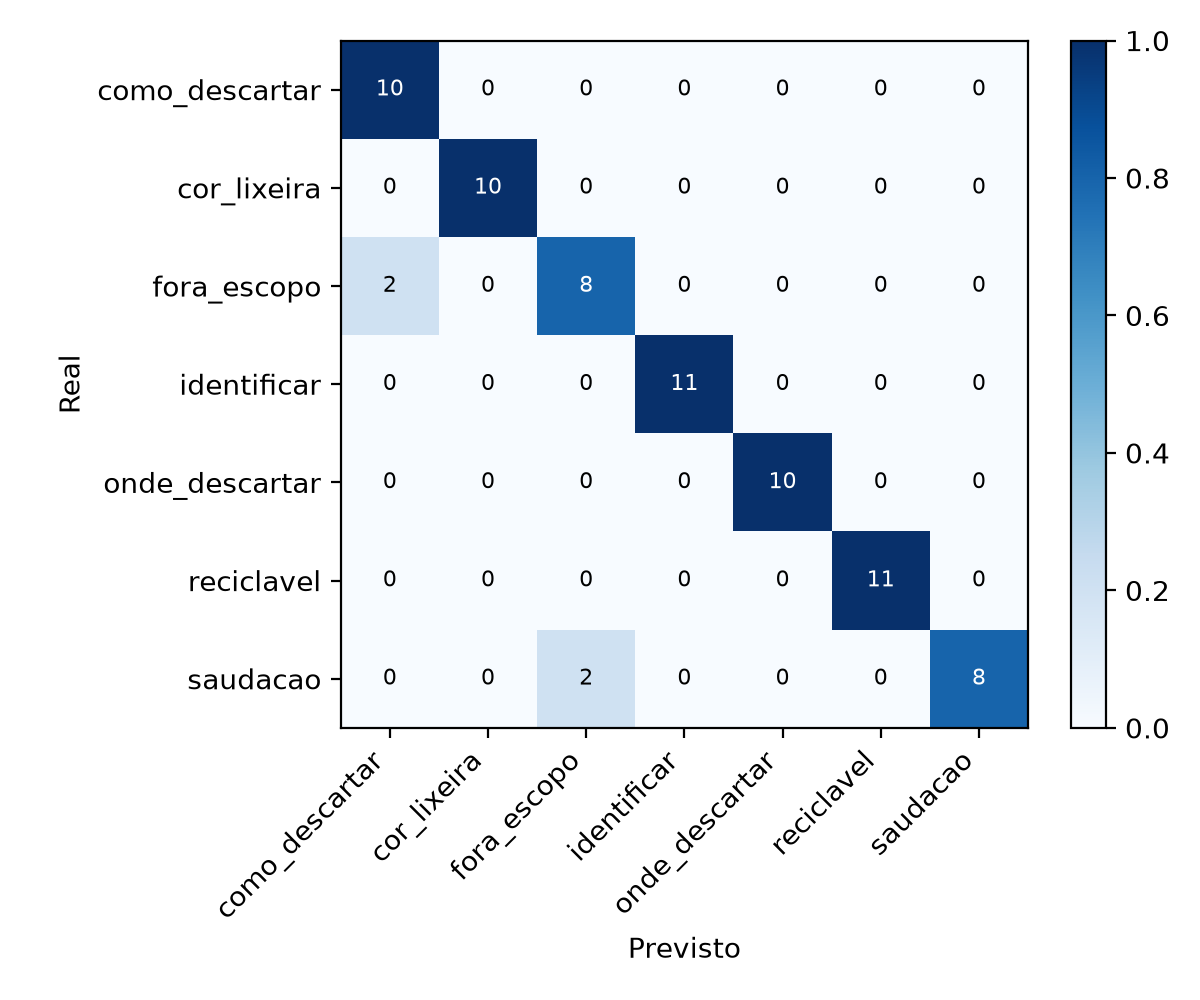
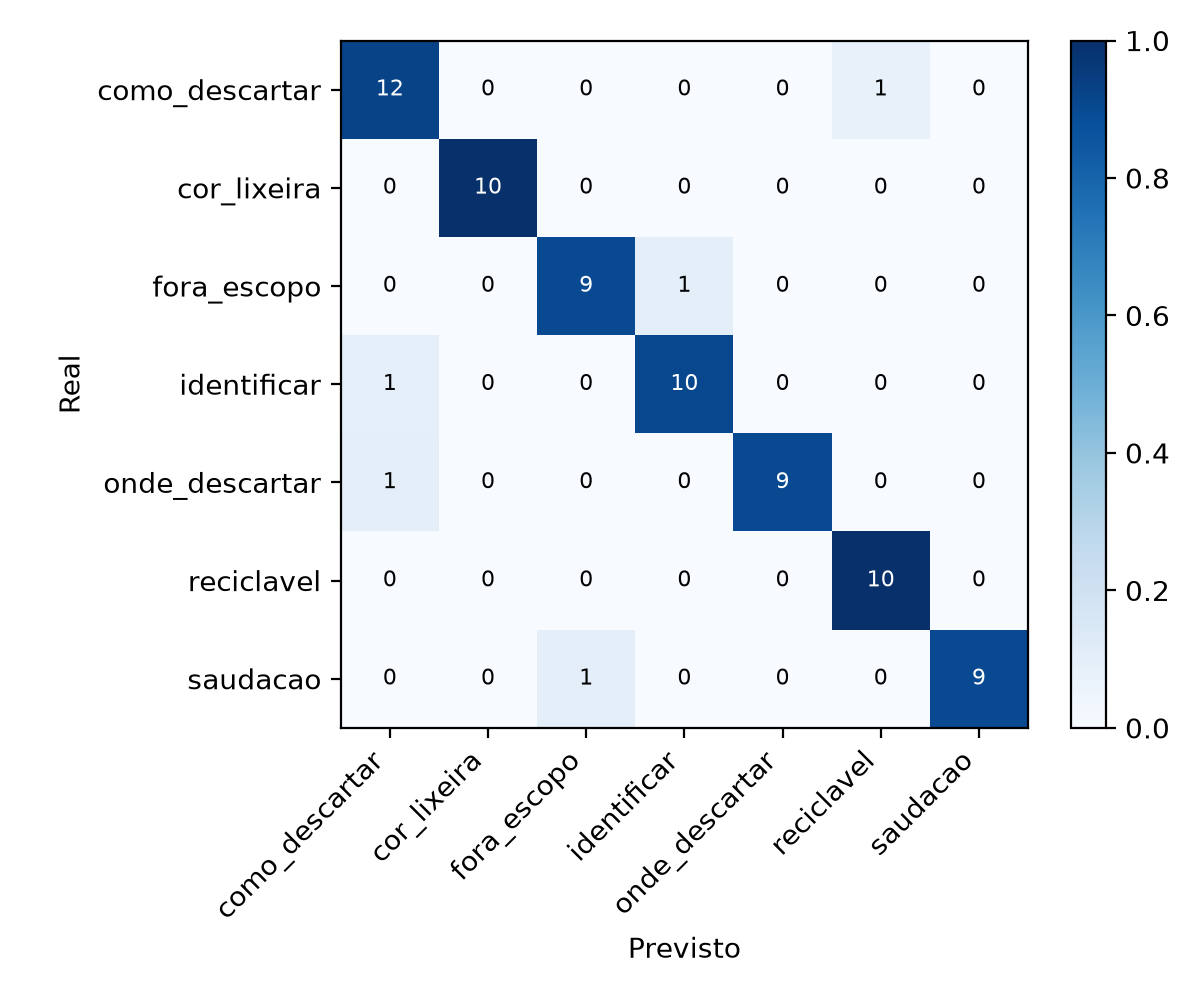
Corrigir memoria de material entre mensagens e intencao 'como reciclar X'

diff --git a/app.py b/app.py
@@ -11,6 +11,7 @@ from PIL import Image
 from src.config import CLASSES_PT, JSON_MAPA, MODELO_CNN, MODELO_INTENCOES
 from src.decisao.agente import AgenteDescarte
 from src.decisao.grafo import MapaColeta
+from src.pln.entidades import com_memoria_de_material, extrair
 
 st.set_page_config(page_title="Descarte Inteligente — Maceió", page_icon="♻", layout="wide")
 
@@ -40,6 +41,10 @@ with col_img:
     arquivo = st.file_uploader("Foto do resíduo", type=["jpg", "jpeg", "png"])
     camera = st.camera_input("…ou tire uma foto agora")
     origem = camera or arquivo
+    sig_imagem = getattr(origem, "file_id", None)
+    if sig_imagem != st.session_state.get("sig_imagem"):
+        st.session_state.sig_imagem = sig_imagem
+        st.session_state.material_lembrado = None
     imagem = Image.open(origem) if origem else None
     if imagem is not None:
         st.image(imagem)
@@ -58,11 +63,15 @@ with col_chat:
     pergunta = st.chat_input("Ex.: isso é reciclável? / onde levo isso?")
     if pergunta:
         st.chat_message("user").markdown(pergunta)
-        resp = agente.responder(pergunta, imagem, bairro)
+        pergunta_agente = com_memoria_de_material(pergunta, st.session_state.get("material_lembrado"))
+        resp = agente.responder(pergunta_agente, imagem, bairro)
+        ent_atual = extrair(pergunta)
+        if ent_atual.material:
+            st.session_state.material_lembrado = ent_atual.termo_material
         st.chat_message("assistant").markdown(resp.texto)
         st.session_state.historico += [("user", pergunta), ("assistant", resp.texto)]
         with st.expander("Como o agente decidiu"):
-            r_int = agente.pln.prever(pergunta)
+            r_int = agente.pln.prever(pergunta_agente)
             st.write(f"**Intenção:** {r_int.intencao} ({r_int.confianca:.0%})")
             st.write(f"**Material:** {resp.material} (fonte: {resp.fonte_material})")
             st.write("**Regras disparadas:**")

diff --git a/testes/test_pln.py b/testes/test_pln.py
@@ -1,7 +1,7 @@
 import pytest
 
 from src.config import MODELO_INTENCOES
-from src.pln.entidades import extrair
+from src.pln.entidades import com_memoria_de_material, extrair
 from src.pln.preprocessamento import normalizar
 
 
@@ -25,6 +25,20 @@ def test_extrair_bairro():
     assert extrair("moro na ponta verde").bairro == "Ponta Verde"
     assert extrair("to no jatiuca agora").bairro == "Jatiúca"
     assert extrair("onde levo isso").bairro is None
+
+
+def test_memoria_de_material_reinsere_quando_pergunta_nao_cita_material():
+    pergunta = com_memoria_de_material("como faço para reciclar isso?", "plastico")
+    assert extrair(pergunta).material == "plastic"
+
+
+def test_memoria_de_material_nao_sobrescreve_material_da_pergunta_atual():
+    pergunta = com_memoria_de_material("isso é de metal, como reciclo?", "vidro")
+    assert extrair(pergunta).material == "metal"
+
+
+def test_memoria_de_material_sem_lembrado_nao_altera_pergunta():
+    assert com_memoria_de_material("oi", None) == "oi"
 
 
 @pytest.mark.skipif(not MODELO_INTENCOES.exists(), reason="rode python -m src.pln.intencoes")

diff --git a/src/pln/entidades.py b/src/pln/entidades.py
@@ -65,3 +65,13 @@ def extrair(texto: str) -> Entidades:
             ent.bairro = b
             break
     return ent
+
+
+def com_memoria_de_material(pergunta: str, termo_lembrado: str | None) -> str:
+    """Reinsere, como contexto, o último material citado pelo usuário em mensagens anteriores
+    da mesma conversa, quando a pergunta atual não cita nenhum material. Sem isso, uma conversa
+    em turnos ("isso é plástico" / depois "como reciclo isso?") perde o material a cada mensagem,
+    já que cada pergunta é processada isoladamente."""
+    if termo_lembrado and extrair(pergunta).material is None:
+        return f"(material mencionado antes: {termo_lembrado}) {pergunta}"
+    return pergunta

diff --git a/CLAUDE.md b/CLAUDE.md
@@ -103,13 +103,25 @@ Intenções: `identificar`, `reciclavel`, `como_descartar`, `cor_lixeira`, `onde
   acurácia **0,700**, F1-macro **0,697**. Splits em `dados/splits/*.csv` (commitados). Modelos
   e imagens do dataset ficam fora do git (`modelos/`, `dados/trashnet/`).
 - **Tarefa 2 (PLN) — PARCIALMENTE feita:** `dados/intencoes.csv` ampliado de ~145 para
-  **286 frases** (146 `origem=equipe` + 140 `origem=gerado_ia`, geradas por mim, não por
+  **296 frases** (146 `origem=equipe` + 150 `origem=gerado_ia`, geradas por mim, não por
   colegas reais — está marcado na coluna `origem` do CSV para ser honesto sobre a origem).
-  F1-macro no teste subiu de 0,696 para **0,943** (melhor modelo agora é Regressão Logística,
-  CV 0,888 ± 0,057). **Ressalva importante:** frases geradas por IA tendem a ser mais
+  F1-macro no teste subiu de 0,696 para **0,935** (melhor modelo agora é SVM linear calibrado,
+  CV 0,877 ± 0,061). **Ressalva importante:** frases geradas por IA tendem a ser mais
   homogêneas que frases reais, então parte do ganho pode estar inflado — o ideal é substituir
   as linhas `gerado_ia` por frases reais de colegas (gírias, erros de digitação variados) e
   re-rodar `python -m src.pln.intencoes` para ver se o F1 real se mantém.
+- **Bug real encontrado e corrigido (2026-11-18), achado pelo Henrique testando o app:**
+  frases com "como" + "reciclar" (ex. "como reciclar isso?") caíam na intenção `reciclavel`
+  (sim/não) em vez de `como_descartar` (instruções), porque os exemplos de treino de
+  `como_descartar` só usavam "descartar/separar/jogar fora", nunca "reciclar". Corrigido
+  adicionando 10 frases `como_descartar` com "como...reciclar" e re-treinando.
+- **Bug real encontrado e corrigido (2026-11-18):** o app não tinha memória de conversa — se
+  o usuário dizia o material numa mensagem ("isso é plástico") e perguntava algo na mensagem
+  seguinte ("como reciclo isso?"), o material citado antes era esquecido (cada pergunta era
+  processada isoladamente). Corrigido com `com_memoria_de_material()` em
+  `src/pln/entidades.py` + estado de sessão no `app.py`: se a pergunta atual não cita
+  material, reaproveita o último material citado por texto na mesma conversa (reiniciado ao
+  trocar a foto). Testado com `testes/test_pln.py`.
 - **Tarefa 4 (exemplos) — CONCLUÍDA:** 8 exemplos reais em `resultados/exemplos/` (imagem do
   split de teste + pergunta → resposta do agente + regras), gerados pelo pipeline completo
   (CNN real + PLN real + agente + A*). Inclui um erro real da CNN (papelão confundido com

diff --git a/README.md b/README.md
@@ -90,7 +90,7 @@ python -m src.visao_computacional.avaliar_campo
 | Dado | Origem | Observações |
 |---|---|---|
 | Imagens | TrashNet (Thung & Yang, 2016): ~2.500 fotos, 6 classes | Verificar a licença no repositório original. Imagens corrompidas são descartadas no carregamento. |
-| Frases de intenção | `dados/intencoes.csv`: 146 frases escritas pela equipe + 140 geradas por IA (coluna `origem`) | 7 intenções, ≥ 40 frases cada. **Trocar as frases `gerado_ia` por frases reais de colegas** (gírias, erros de digitação) tende a melhorar ainda mais a generalização. |
+| Frases de intenção | `dados/intencoes.csv`: 146 frases escritas pela equipe + 150 geradas por IA (coluna `origem`) | 7 intenções, ≥ 40 frases cada. **Trocar as frases `gerado_ia` por frases reais de colegas** (gírias, erros de digitação) tende a melhorar ainda mais a generalização. |
 | Mapa | `dados/mapa_maceio.json` | **Simulado**: coordenadas aproximadas dos bairros e pontos de coleta fictícios. |
 
 ## Resultados
@@ -103,8 +103,8 @@ Os arquivos ficam em `resultados/` (métricas em JSON/CSV), `resultados/graficos
 |---|---|---|
 | CNN MobileNetV2 (teste) | acurácia / F1-macro | 0,87 / 0,86 |
 | Baseline HOG + SVM (teste) | acurácia / F1-macro | 0,70 / 0,70 |
-| Intenções — melhor modelo (CV 5 folds) | F1-macro | 0,89 ± 0,06 (Regressão Logística) |
-| Intenções (teste, 25%) | acurácia / F1-macro | 0,94 / 0,94 |
+| Intenções — melhor modelo (CV 5 folds) | F1-macro | 0,88 ± 0,06 (SVM linear) |
+| Intenções (teste, 25%) | acurácia / F1-macro | 0,93 / 0,94 |
 | Busca A* | nós expandidos (média) / % ótimo | 3,1 / 100% (custo uniforme: 4,8 / 100%; BFS: 4,6 / 75%) |
 
 ## Limitações
